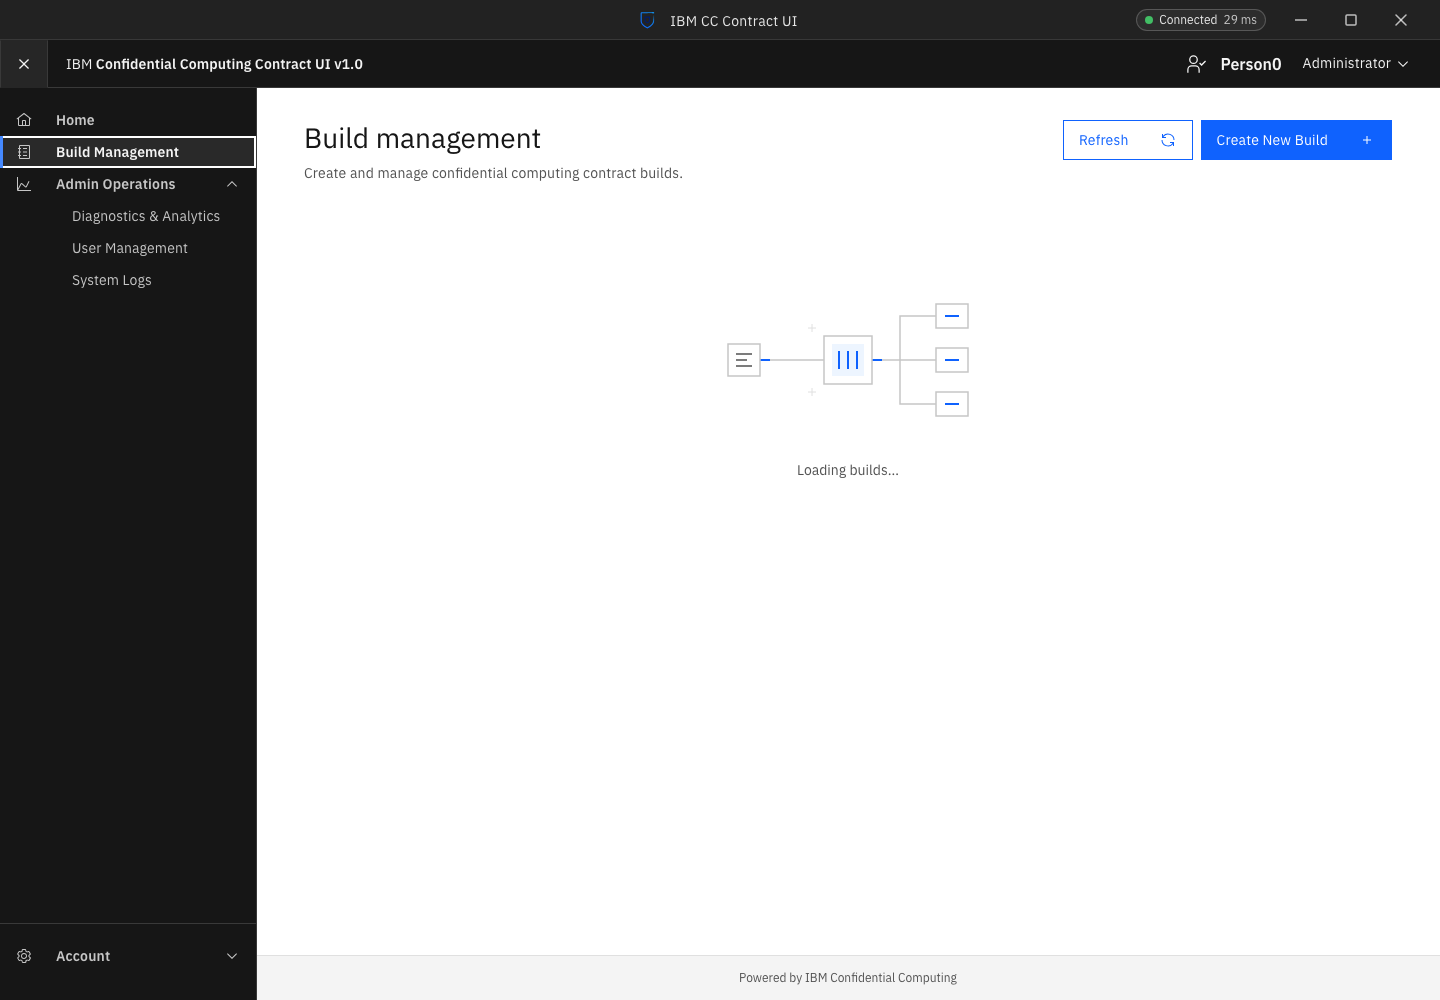
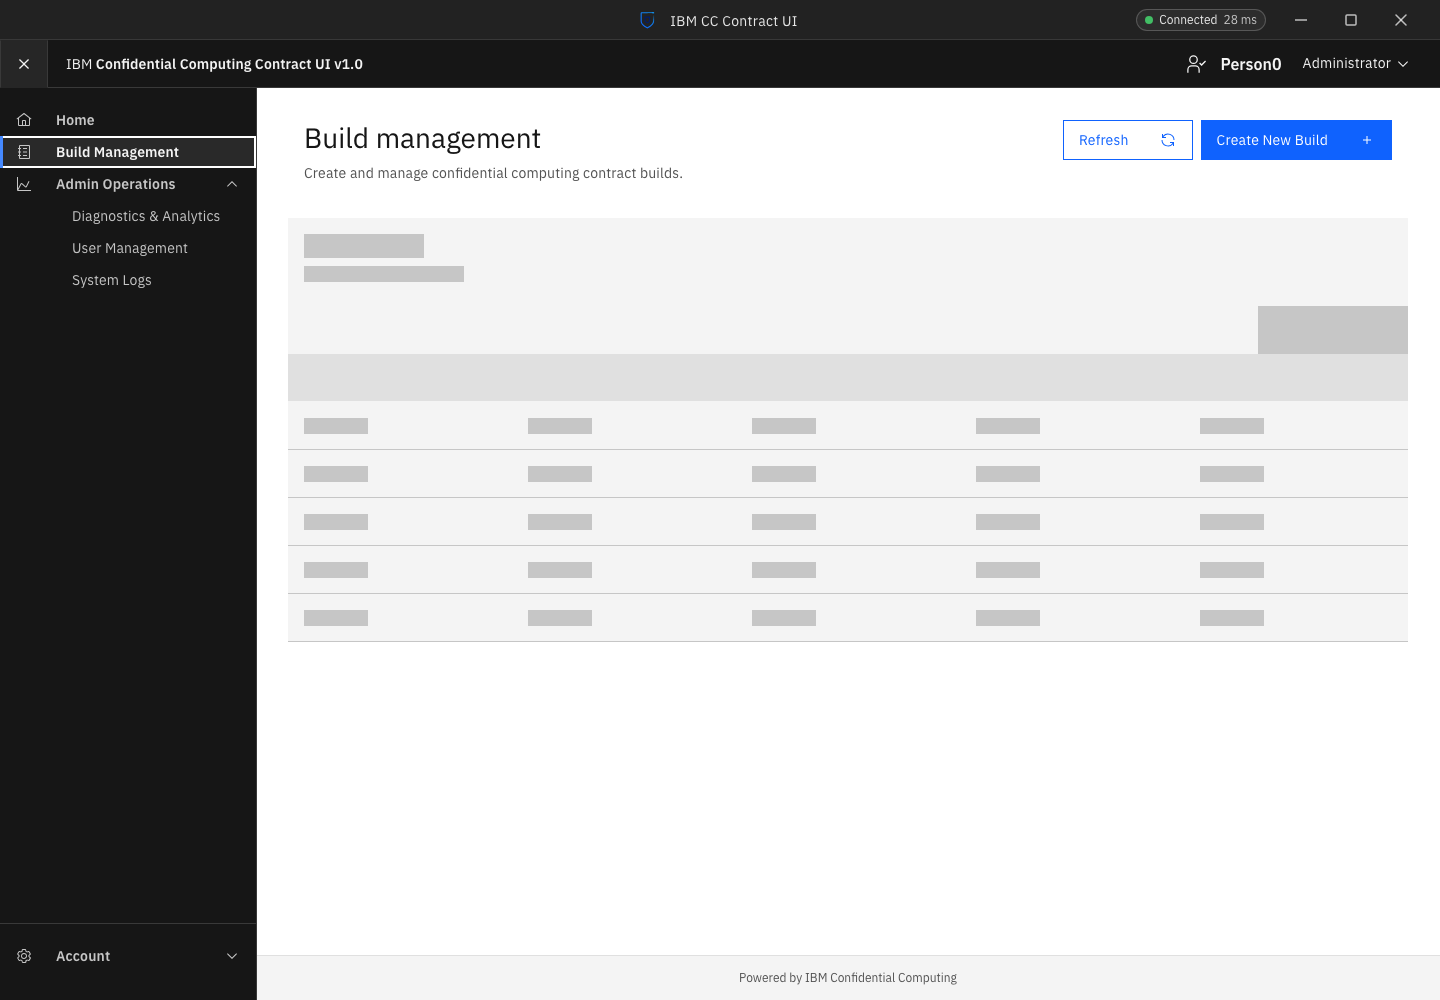
docs(review): retain table skeletons — refresh comparisons

diff --git a/docs/review/loading-states/README.md b/docs/review/loading-states/README.md
@@ -1,11 +1,12 @@
 # Contextual loading states — visual review
 
 Baseline: IBM `main` at `b34cabe785a230b3a2df4efb4e7dd90138d0cd38`.
-Implementation: `c1c361d8ad8cab3a8f53239343c8224e5046de5c`.
+Implementation: `5645a8378220982f5825a6a90cc9e2a96ab78ab8`.
 
 These captures use the real React/Carbon components with synthetic backend and
 Electron IPC fixtures. Requests are deliberately delayed to show pending states.
-They contain no production accounts, credentials or contracts. PNGs use reduced
+They contain no production accounts, credentials or contracts. Build Management,
+User Management and System Logs retain Carbon table skeletons. PNGs use reduced
 motion; the GIF records the animated Analytics state in the app.
 
 | Area | Before | After |
@@ -38,6 +39,8 @@ motion; the GIF records the animated Analytics state in the app.
 
 - `npm run build` and `git diff --check` pass. No test runner exists in this repository.
 - Delayed requests show activity and completed requests remove it.
+- Build Management, User Management and System Logs show native Carbon table
+  skeletons while pending; no SVG replaces those table layouts.
 - Failed login, password, template and signing-key operations clear activity and allow retry.
 - Finalisation and export complete successfully; pending transaction actions stay disabled.
 - Configuration hydration completes on success and read failure; startup has no fake percentage.
